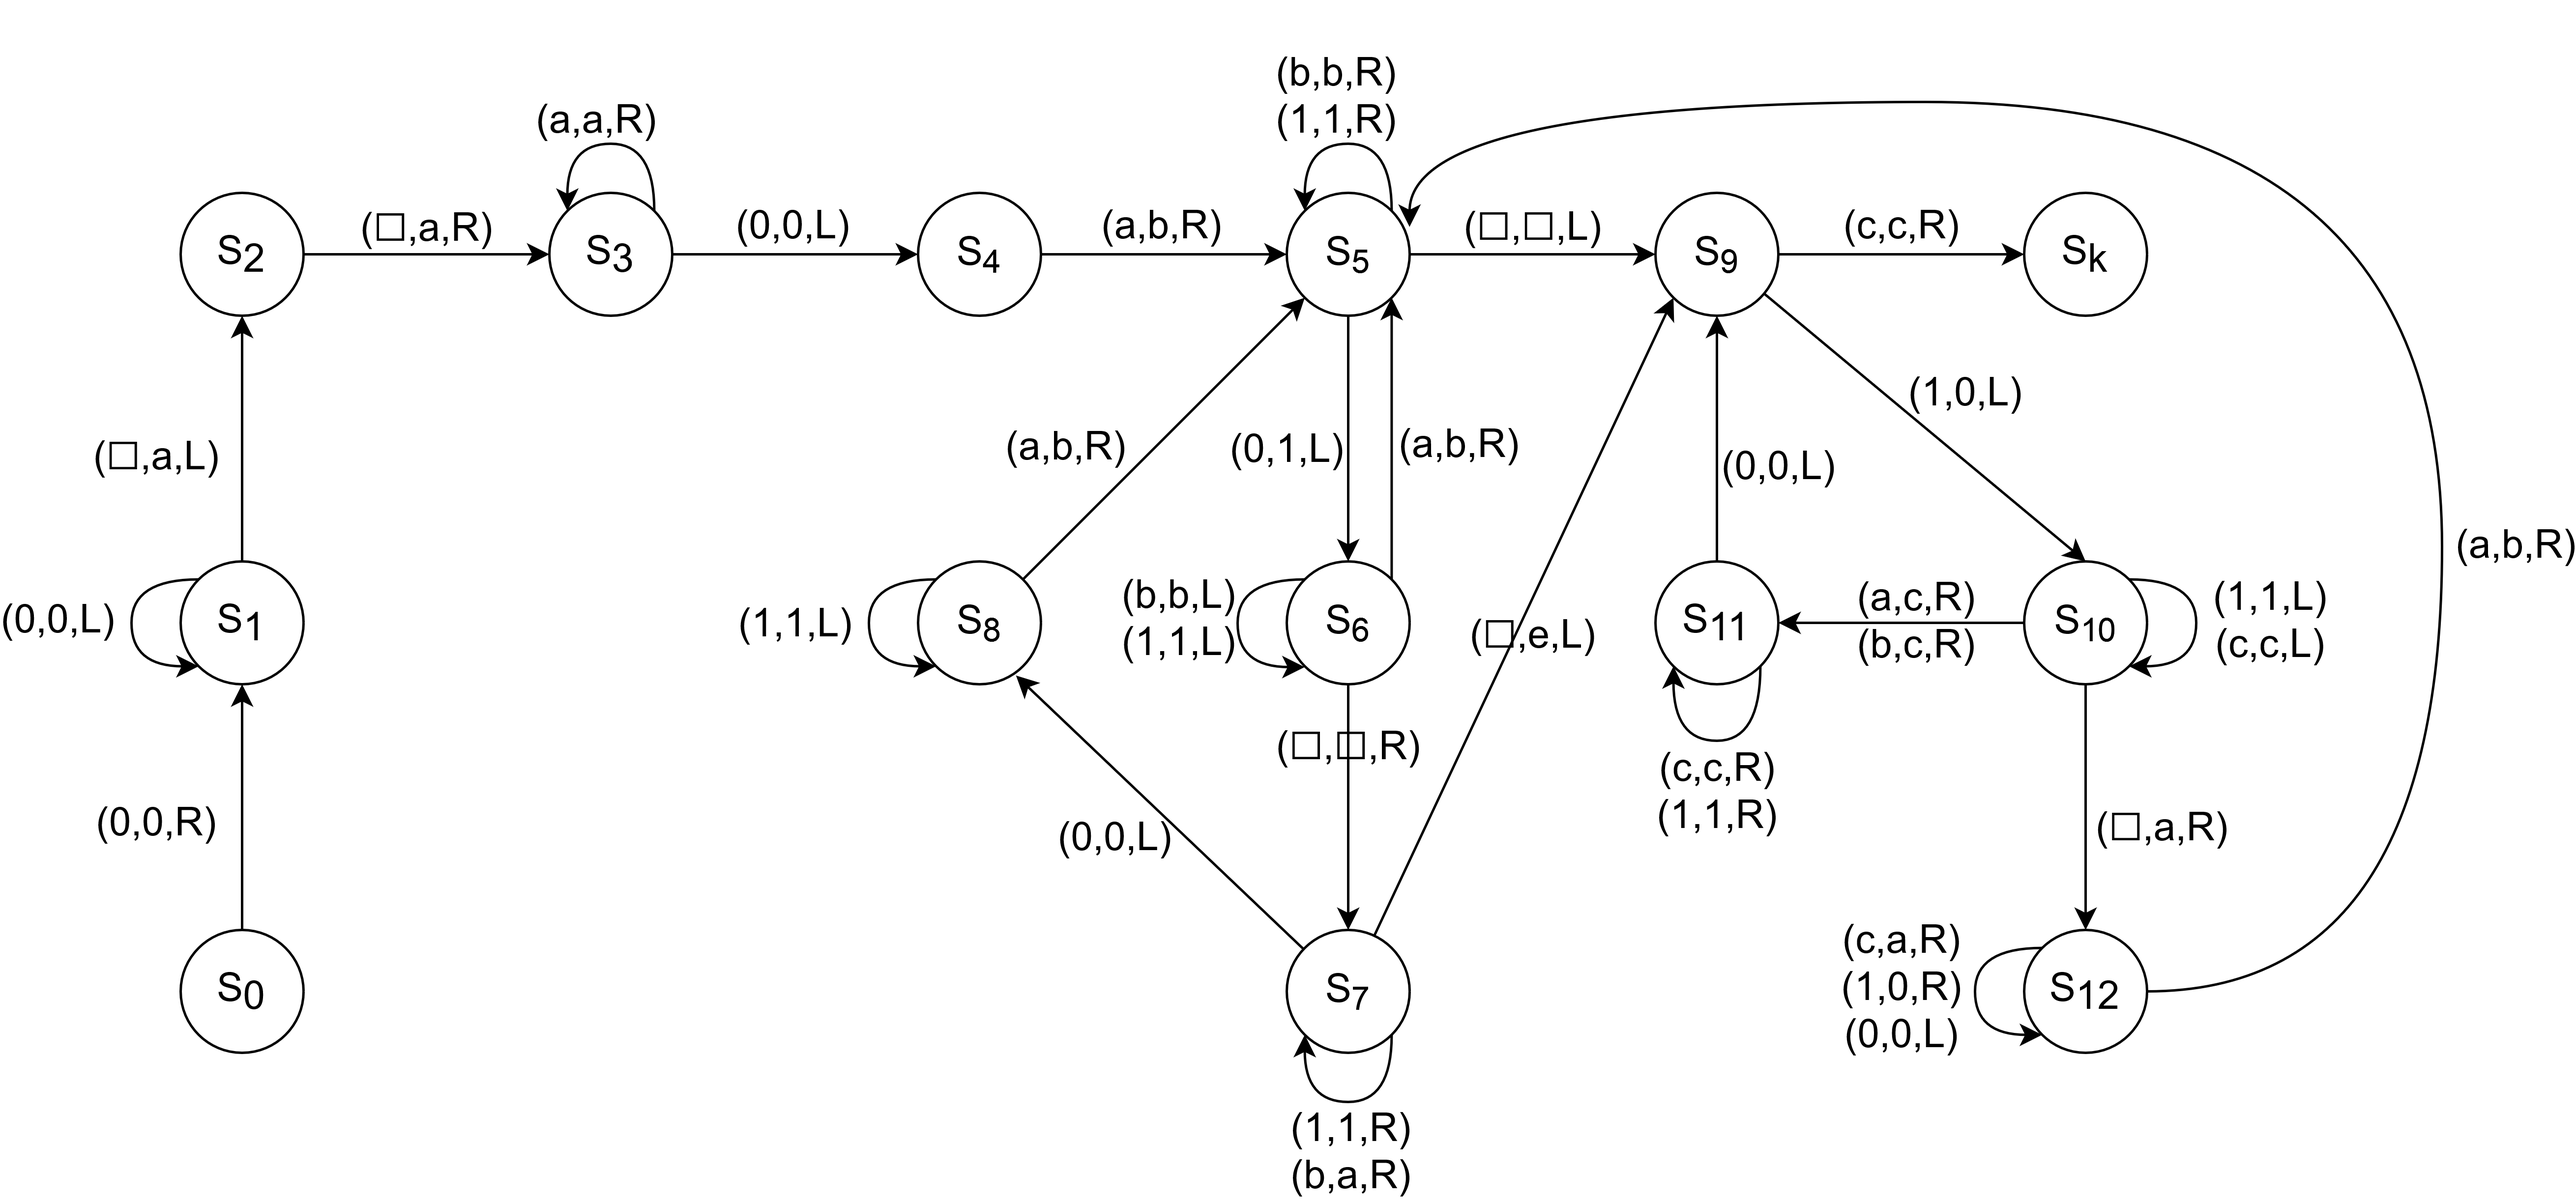
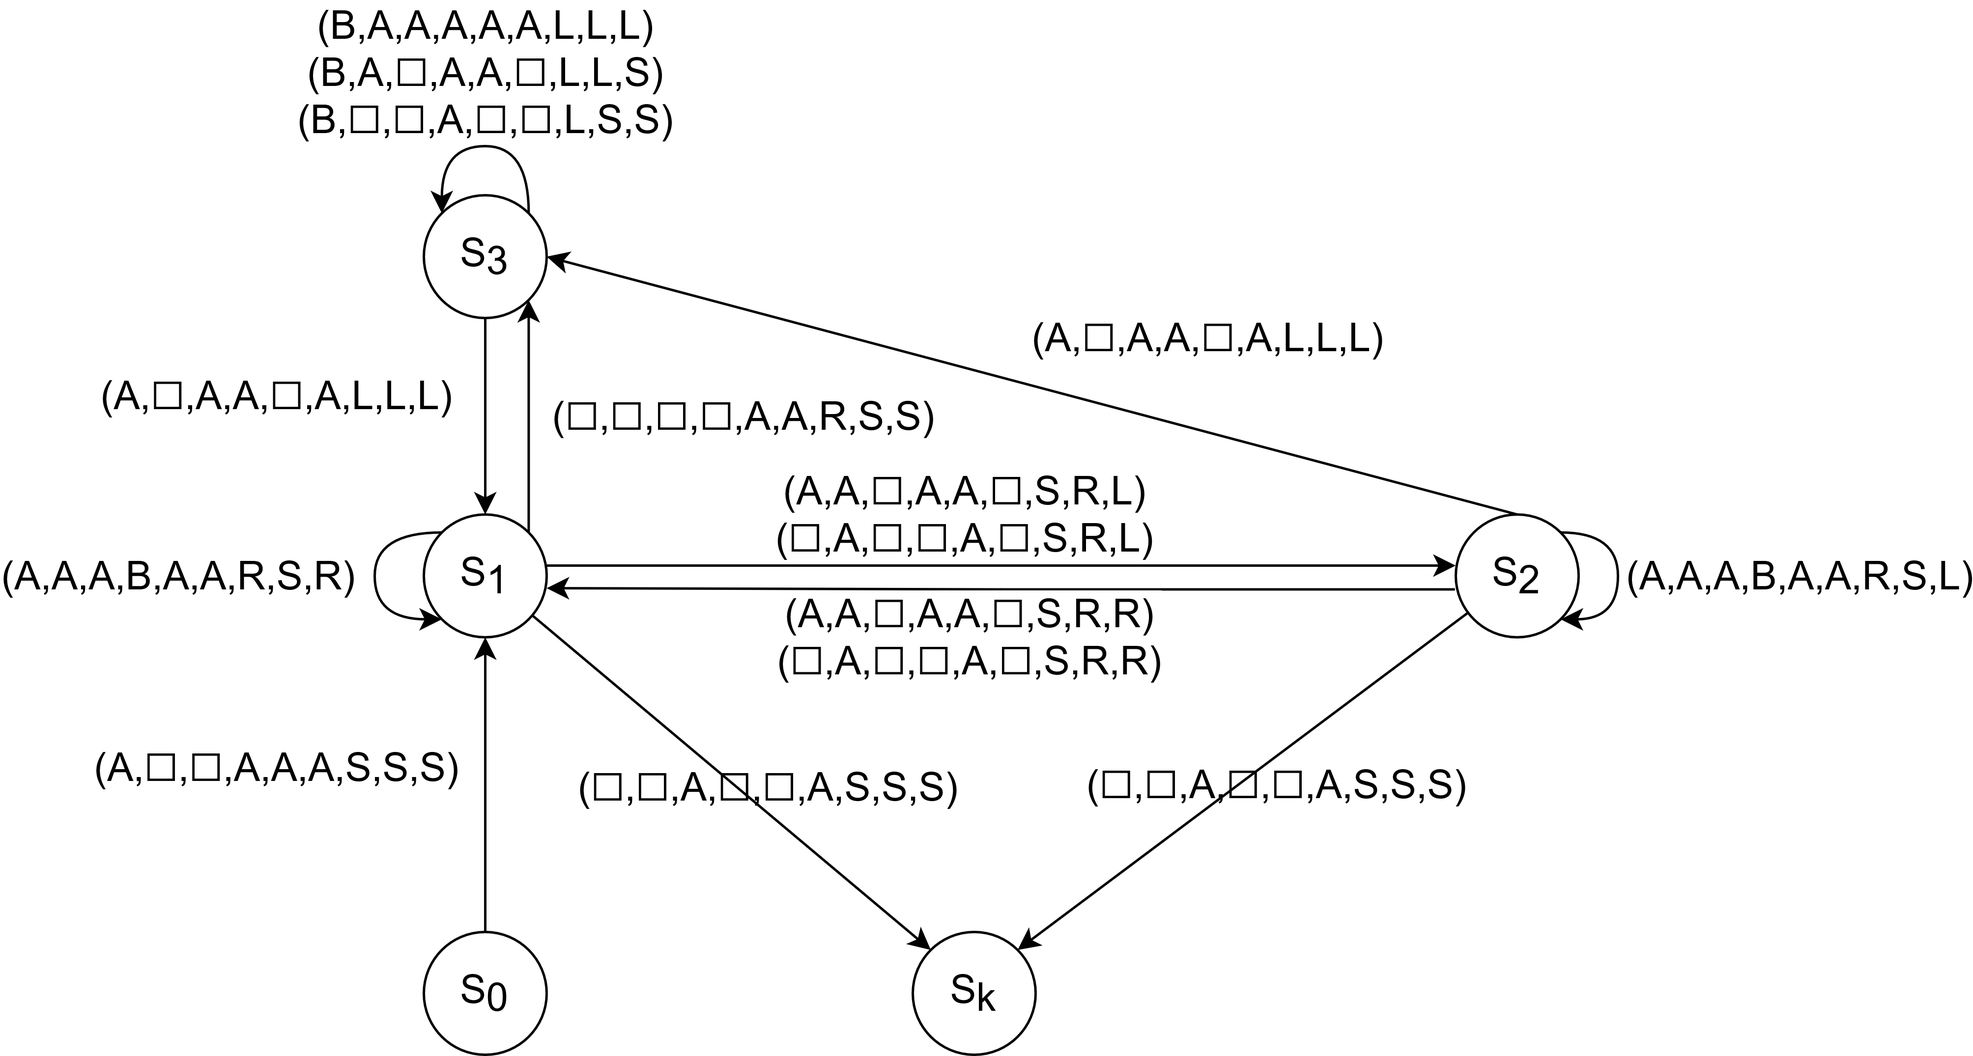
3 tape version

diff --git a/src/main/kotlin/turing/Turing.kt b/src/main/kotlin/turing/Turing.kt
@@ -2,8 +2,8 @@ package pl.lodz.uni.project1.turing
 
 import pl.lodz.uni.project1.turing.Move.*
 import pl.lodz.uni.project1.turing.State.*
-import pl.lodz.uni.project1.turing.Value.A
-import pl.lodz.uni.project1.turing.Value.EMPTY
+import pl.lodz.uni.project1.turing.Value.*
+import kotlin.math.sqrt
 
 class Turing private constructor(
     private val tapes: Array<Array<Value>>,
@@ -13,24 +13,26 @@ class Turing private constructor(
 ) {
     companion object {
         operator fun invoke(number: Int): Turing {
-            val array = Array(4) { Array(number * 3 + 2) { EMPTY } }
-            for (i in number until number * 2) {
-                array[0][i] = A
-            }
-            return Turing(array, intArrayOf(number, number, number, number), S0);
+            val a1 = Array(number + 2) { A }
+            a1[0] = EMPTY
+            a1[a1.lastIndex] = EMPTY
+            val tapesSize = sqrt(number.toDouble()).toInt() + 3
+            val a2 = Array(tapesSize) { EMPTY }
+            val a3 = a2.copyOf()
+            return Turing(arrayOf(a1, a2, a3), intArrayOf(1, tapesSize - 2, tapesSize - 2), S0);
         }
     }
 
     private var currentValues: TapeValues
         get() {
             val values = TapeValues()
-            for (i in 0..3) {
+            for (i in tapes.indices) {
                 values.array[i] = tapes[i][indexes[i]]
             }
             return values
         }
         set(values) {
-            for (i in 0..3) {
+            for (i in tapes.indices) {
                 tapes[i][indexes[i]] = values.array[i]
             }
         }
@@ -45,69 +47,39 @@ class Turing private constructor(
             when (state) {
                 S0 -> {
                     when (currentValues) {
-                        TapeValues(A, EMPTY, EMPTY, EMPTY) -> next(S1, TapeValues(A, A, A, EMPTY), arrayOf(S, S, S, S))
+                        TapeValues(A, EMPTY, EMPTY) -> next(S1, TapeValues(A, A, A), arrayOf(S, S, S))
                         else -> throwBadArgument()
                     }
                 }
 
                 S1 -> {
                     when (currentValues) {
-                        TapeValues(A, A, A, EMPTY) -> next(S2, TapeValues(A, A, A, A), arrayOf(S, S, R, R))
+                        TapeValues(A, A, A) -> next(S1, TapeValues(B, A, A), arrayOf(R, S, R))
+                        TapeValues(A, A, EMPTY) -> next(S2, TapeValues(A, A, EMPTY), arrayOf(S, R, L))
+                        TapeValues(EMPTY, A, EMPTY) -> next(S2, TapeValues(EMPTY, A, EMPTY), arrayOf(S, R, L))
+                        TapeValues(A, EMPTY, A) -> next(S3, TapeValues(A, EMPTY, A), arrayOf(L, L, L))
+                        TapeValues(EMPTY, EMPTY, A) -> next(Sk, TapeValues(EMPTY, EMPTY, A), arrayOf(S, S, S))
                         else -> throwBadArgument()
                     }
                 }
 
                 S2 -> {
                     when (currentValues) {
-                        TapeValues(A, A, A, EMPTY) -> next(S2, TapeValues(A, A, A, A), arrayOf(S, S, R, R))
-                        TapeValues(A, A, EMPTY, EMPTY) -> next(S3, TapeValues(A, A, EMPTY, EMPTY), arrayOf(S, R, L, S))
-                        TapeValues(A, EMPTY, A, EMPTY) -> next(S4, TapeValues(A, EMPTY, A, EMPTY), arrayOf(S, L, S, L))
+                        TapeValues(A, A, A) -> next(S2, TapeValues(B, A, A), arrayOf(R, S, L))
+                        TapeValues(A, A, EMPTY) -> next(S1, TapeValues(A, A, EMPTY), arrayOf(S, R, R))
+                        TapeValues(EMPTY, A, EMPTY) -> next(S1, TapeValues(EMPTY, A, EMPTY), arrayOf(S, R, R))
+                        TapeValues(A, EMPTY, A) -> next(S3, TapeValues(A, EMPTY, A), arrayOf(L, L, L))
+                        TapeValues(EMPTY, EMPTY, A) -> next(Sk, TapeValues(EMPTY, EMPTY, A), arrayOf(S, S, S))
                         else -> throwBadArgument()
                     }
                 }
 
                 S3 -> {
                     when (currentValues) {
-                        TapeValues(A, A, A, EMPTY) -> next(S3, TapeValues(A, A, A, A), arrayOf(S, S, L, R))
-                        TapeValues(A, A, EMPTY, EMPTY) -> next(S2, TapeValues(A, A, EMPTY, EMPTY), arrayOf(S, R, R, S))
-                        TapeValues(A, EMPTY, A, EMPTY) -> next(S4, TapeValues(A, EMPTY, A, EMPTY), arrayOf(S, L, S, L))
-                        else -> throwBadArgument()
-                    }
-                }
-
-                S4 -> {
-                    when (currentValues) {
-                        TapeValues(A, A, A, A) -> next(S4, TapeValues(A, A, A, EMPTY), arrayOf(R, L, L, L))
-                        TapeValues(A, A, EMPTY, A) -> next(S4, TapeValues(A, A, EMPTY, EMPTY), arrayOf(R, L, S, L))
-                        TapeValues(A, EMPTY, A, A) -> next(S4, TapeValues(A, EMPTY, A, EMPTY), arrayOf(R, S, L, L))
-                        TapeValues(A, EMPTY, EMPTY, A) -> next(
-                            S4,
-                            TapeValues(A, EMPTY, EMPTY, EMPTY),
-                            arrayOf(R, S, S, L)
-                        )
-
-                        TapeValues(A, EMPTY, EMPTY, EMPTY) -> next(S5, TapeValues(A, A, A, EMPTY), arrayOf(L, S, S, S))
-                        TapeValues(EMPTY, EMPTY, EMPTY, EMPTY) -> next(
-                            Sk,
-                            TapeValues(EMPTY, EMPTY, EMPTY, EMPTY),
-                            arrayOf(S, S, S, S)
-                        )
-
-                        else -> throwBadArgument()
-                    }
-                }
-
-                S5 -> {
-                    when (currentValues) {
-                        TapeValues(A, A, A, EMPTY) -> next(S6, TapeValues(A, A, A, EMPTY), arrayOf(L, S, S, S))
-                        else -> throwBadArgument()
-                    }
-                }
-
-                S6 -> {
-                    when (currentValues) {
-                        TapeValues(A, A, A, EMPTY) -> next(S6, TapeValues(A, A, A, EMPTY), arrayOf(L, S, S, S))
-                        TapeValues(EMPTY, A, A, EMPTY) -> next(S2, TapeValues(EMPTY, A, A, EMPTY), arrayOf(R, S, S, S))
+                        TapeValues(B, A, A) -> next(S3, TapeValues(A, A, A), arrayOf(L, L, L))
+                        TapeValues(B, A, EMPTY) -> next(S3, TapeValues(A, A, EMPTY), arrayOf(L, L, S))
+                        TapeValues(B, EMPTY, EMPTY) -> next(S3, TapeValues(A, EMPTY, EMPTY), arrayOf(L, S, S))
+                        TapeValues(EMPTY, EMPTY, EMPTY) -> next(S1, TapeValues(EMPTY, A, A), arrayOf(R, S, S))
                         else -> throwBadArgument()
                     }
                 }
@@ -125,29 +97,29 @@ class Turing private constructor(
     ) {
         val c = currentValues
         println(
-            "$iteration:\t(${state.value},${c.array[0].value},${c.array[1].value},${c.array[2].value},${c.array[3].value})->" +
-                    "(${newState.value},${newValues.array[0].value},${newValues.array[1].value},${newValues.array[2].value},${newValues.array[3].value}," +
-                    "${moves[0].string},${moves[1].string},${moves[2].string},${moves[3].string})"
+            "$iteration:\t(${state.value},${c.array[0].value},${c.array[1].value},${c.array[2].value})->" +
+                    "(${newState.value},${newValues.array[0].value},${newValues.array[1].value},${newValues.array[2].value}," +
+                    "${moves[0].string},${moves[1].string},${moves[2].string})"
         )
         println("$this")
         iteration++
         state = newState
         currentValues = newValues
-        for (i in 0..3) {
+        for (i in tapes.indices) {
             indexes[i] = indexes[i] + moves[i].value
         }
     }
 
     override fun toString(): String {
         var s = ""
-        for (i in 0..3) {
+        for (i in tapes.indices) {
             for (j in tapes[i].indices) {
                 if (j == indexes[i]) {
                     s += "($state)"
                 }
                 s += tapes[i][j].value
             }
-            if (i != 3) s += "\n"
+            if (i != tapes.lastIndex) s += "\n"
         }
         return s
     }

diff --git a/src/test/kotlin/TuringTest.kt b/src/test/kotlin/TuringTest.kt
@@ -1,4 +1,3 @@
-import org.junit.Ignore
 import org.junit.jupiter.api.Assertions.*
 import org.junit.jupiter.api.TestInstance
 import org.junit.jupiter.api.function.Executable
@@ -10,26 +9,19 @@ import java.util.stream.Stream
 
 @TestInstance(TestInstance.Lifecycle.PER_CLASS)
 internal class TuringTest {
+    companion object {
+        val ACCEPTED = listOf(1, 4, 9, 16, 25, 36, 49, 64, 81, 100)
+    }
+
     @ParameterizedTest
     @MethodSource("testCheckIfNumberIsPowerOfNumberData")
     fun testCheckIfNumberIsPowerOfNumber(number: Int) {
         assertDoesNotThrow(Exec(number))
     }
 
-    private fun testCheckIfNumberIsPowerOfNumberData(): Stream<Arguments?>? {
-        return Stream.of(
-            Arguments.of(1),
-            Arguments.of(4),
-            Arguments.of(9),
-            Arguments.of(16),
-            Arguments.of(25),
-            Arguments.of(36),
-            Arguments.of(49),
-            Arguments.of(64),
-            Arguments.of(81),
-            Arguments.of(100),
-        )
-    }
+    private fun testCheckIfNumberIsPowerOfNumberData(): Stream<Arguments> = ACCEPTED
+        .map { Arguments.of(it) }
+        .stream()
 
     @ParameterizedTest
     @MethodSource("testCheckIfNumberIsPowerOfNumberThrowData")
@@ -37,20 +29,11 @@ internal class TuringTest {
         assertThrows(IllegalArgumentException().javaClass, Exec(number))
     }
 
-    private fun testCheckIfNumberIsPowerOfNumberThrowData(): Stream<Arguments?>? {
-        return Stream.of(
-            Arguments.of(0),
-            Arguments.of(2),
-            Arguments.of(3),
-            Arguments.of(5),
-            Arguments.of(6),
-            Arguments.of(7),
-            Arguments.of(8),
-            Arguments.of(10),
-            Arguments.of(44),
-            Arguments.of(99),
-        )
-    }
+    private fun testCheckIfNumberIsPowerOfNumberThrowData(): Stream<Arguments> = IntArray(100) { it }
+        .toList()
+        .filter { !ACCEPTED.contains(it) }
+        .map { Arguments.of(it) }
+        .stream()
 
     private class Exec(val number: Int) : Executable {
         override fun execute() {

diff --git a/src/main/kotlin/turing/TapeValues.kt b/src/main/kotlin/turing/TapeValues.kt
@@ -3,8 +3,8 @@ package pl.lodz.uni.project1.turing
 import pl.lodz.uni.project1.turing.Value.EMPTY
 
 data class TapeValues(val array: Array<Value>) {
-    constructor() : this(Array(4) { EMPTY })
-    constructor(v1: Value, v2: Value, v3: Value, v4: Value) : this(arrayOf(v1, v2, v3, v4))
+    constructor() : this(Array(3) { EMPTY })
+    constructor(v1: Value, v2: Value, v3: Value) : this(arrayOf(v1, v2, v3))
 
     override fun equals(other: Any?): Boolean {
         if (this === other) return true

diff --git a/src/main/kotlin/turing/State.kt b/src/main/kotlin/turing/State.kt
@@ -5,8 +5,5 @@ enum class State(val value: String) {
     S1("S1"),
     S2("S2"),
     S3("S3"),
-    S4("S4"),
-    S5("S5"),
-    S6("S6"),
     Sk("Sk")
 }

diff --git a/src/main/kotlin/turing/Value.kt b/src/main/kotlin/turing/Value.kt
@@ -2,5 +2,6 @@ package pl.lodz.uni.project1.turing
 
 enum class Value(val value: String) {
     A("a"),
+    B("b"),
     EMPTY("[]"),
 }
